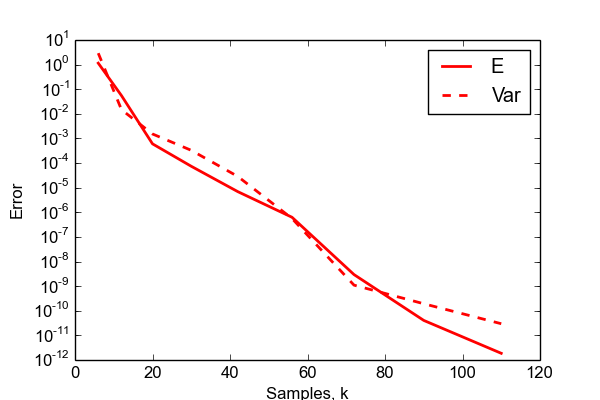
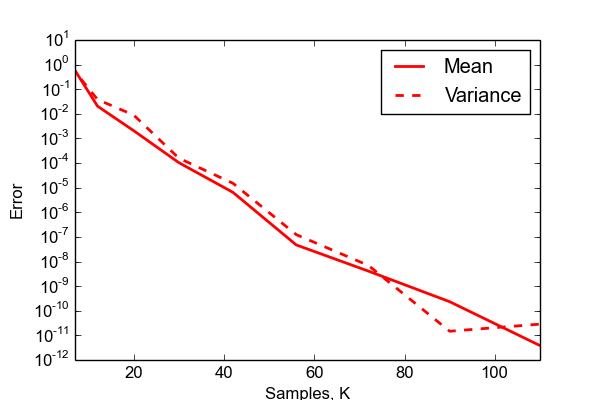
updated legend in plots

diff --git a/lecture2.tex b/lecture2.tex
@@ -142,7 +142,7 @@ mean, var = cp.E(u_hat, dist), cp.Var(u_hat, dist)
    \varepsilon_{Var} = \int_0^{10}|Var(u) - Var(\hat{u})|\,dx\]
 
  \begin{figure}
-  \includegraphics[width=0.7\textwidth]{Convergence_repeat.png}
+  \includegraphics[width=0.7\textwidth]{MC_convergence_2D.png}
  \end{figure}
 
 \end{frame}
@@ -393,7 +393,7 @@ Smolyak sparse grid:
   \begin{alert}
       {Clenshaw-Curtis:}\\
       \scriptsize
-    \verb;cp.generate\_quadrature(l, dist, rule="C", growth=False);
+     \verb;cp.generate\_quadrature(l, dist, rule="C", growth=False);
     \normalsize
   \begin{table}
   \begin{tabular}{lcccccccc}
@@ -407,7 +407,7 @@ Smolyak sparse grid:
   \begin{alert}
       {Nested Clenshaw-Curtis:}\\
       \scriptsize
-   \verb;cp.generate\_quadrature(l, dist, rule="C", growth=True);
+    \verb;cp.generate\_quadrature(l, dist, rule="C", growth=True);
     \normalsize
   \begin{table}
   \begin{tabular}{lcccccccc}
@@ -656,7 +656,7 @@ U_hat = cp.fit_regression(P, nodes, solves)
                 \scriptsize
                 \verb;nodes = dist.sample(100);
                 \normalsize
-                \includegraphics[width=0.7\textwidth]{samples_L.png}
+                %\includegraphics[width=0.7\textwidth]{samples_L.png}
 
                 L sampling:
 
@@ -705,7 +705,7 @@ U_hat = cp.fit_regression(P, nodes, solves)
 \end{frame}
 
 
-\begin{frame}{A compare between different methods}{}
+\begin{frame}{A comparison between different methods}{}
     % TODO
     % Plot!
     % SC nested-CC sparsegrid vs. PC with S-rule and LS-fit vs. MC
@@ -846,10 +846,9 @@ p_90 = np.percentile(u_mc,90,1)
  \end{lstlisting}
 \end{chaospy}
 
-\begin{frame}[fragile]
+\begin{frame}
  \frametitle{Confidence interval}
  % TODO
- % low: >>> plt.fill_between
   \begin{figure}
   \includegraphics[width=0.85\textwidth]{percentiles.png}
  \end{figure}

diff --git a/figures/MC_convergence_1D.py b/figures/MC_convergence_1D.py
@@ -10,11 +10,11 @@ pl.rc("figure", figsize=[6,4])
 pl.plot(-1,1, "k-")
 pl.plot(-1,1, "k--")
 pl.plot(-1,1, "r")
-pl.plot(-1,1, "b")
+#pl.plot(-1,1, "b")
 pl.plot(-1,1, "g")
-pl.legend(["E","Var", "Monte Carlo","Legendre","Polynomial chaos"],loc=3,prop={"size" :12})
+pl.legend(["Mean","Variance", "Monte Carlo","Polynomial chaos"],loc=3,prop={"size" :12})
 pl.xlim([0,20])
-pl.ylim([10**-20,10**1])
+pl.ylim([10**-26,10**1])
 
 def E_analytical(x):
     #return (1-np.exp(10*x))/(10*x)
@@ -133,6 +133,7 @@ for k in range(0,N+1):
 
 pl.plot(totalerrorMC, "r-",linewidth=2)
 pl.plot(totalvarianceMC, "r--", linewidth=2)
+
 pl.plot(K,errorPoly, "b-", linewidth=2)
 pl.plot(K,varPoly,"b--", linewidth=2)
 
@@ -144,6 +145,6 @@ pl.ylabel("Error")
 pl.yscale('log')
 #pl.legend(["E, MC","Var, MC","E, PC","Var, PC"], loc=3)
 #pl.savefig("Convergence_repeat.png")
-pl.savefig("MC_convergence_1D_2.png")
+pl.savefig("MC_convergence_1D_3.png")
 
 pl.show()

diff --git a/figures/convergence_collocation.py b/figures/convergence_collocation.py
@@ -21,7 +21,7 @@ I = cp.Uniform(8, 10)
 dist = cp.J(a,I)
 
 T = np.linspace(0, 10, Nt+1)[1:]
-dt = T[1] - T[0]
+dt = 10./Nt
 
 
 error = []
@@ -43,11 +43,12 @@ pl.rc("figure", figsize=[6,4])
     
 pl.plot(K,error,"r-",linewidth=2)
 pl.plot(K, var,"r--",linewidth=2)
-pl.xlabel("Samples, k")
+pl.xlabel("Samples, K")
 pl.ylabel("Error")
 pl.yscale('log')
+pl.xlim([7,110])
 #pl.title("Error in expectation value and variance ")
-pl.legend(["E","Var"])
+pl.legend(["Mean","Variance"])
 pl.savefig("convergence_collocation.png")
 
 pl.show()

diff --git a/figures/MC_convergence_2D_diff.py b/figures/MC_convergence_2D_diff.py
@@ -13,9 +13,9 @@ pl.plot(-1,1, "k--")
 pl.plot(-1,1, "r")
 pl.plot(-1,1, "b")
 pl.plot(-1,1, "g")
-pl.legend(["E","Var", "Monte Carlo","Nested-CC sparsegrid", "PC with S-rule and LS"],loc=3,prop={"size" :12})
+pl.legend(["Mean","Variance", "Monte Carlo","CC with nested sparse grid", "Least Square with Sobol sampling"],loc=3,prop={"size" :12})
 #pl.xlim([0,20])
-pl.ylim([10**-16,10**4])
+pl.ylim([10**-20,10**4])
 
 
 def E_analytical(x):

diff --git a/figures/gallerkin.py b/figures/gallerkin.py
@@ -40,7 +40,7 @@ pl.plot(-1,1, "k--")
 pl.plot(-1,1, "r")
 pl.plot(-1,1, "b")
 pl.plot(-1,1, "g")
-pl.legend(["E","Var", "Gaussian quadrature","Point collocation","Intrusive Gallerkin"],loc=3,prop={"size" :12})
+pl.legend(["Mean","Variance", "Gaussian quadrature","Point collocation","Intrusive Gallerkin"],loc=3,prop={"size" :12})
 pl.xlim([5,30])
 pl.ylim([10**-22,10**0])
 

diff --git a/figures/MC_convergence_2D.py b/figures/MC_convergence_2D.py
@@ -13,7 +13,7 @@ pl.plot(-1,1, "k--")
 pl.plot(-1,1, "r")
 pl.plot(-1,1, "b")
 #pl.plot(-1,1, "g")
-pl.legend(["E","Var", "Monte Carlo","Polynomial chaos"],loc=3,prop={"size" :12})
+pl.legend(["Mean","Variance", "Monte Carlo","Polynomial chaos"],loc=3,prop={"size" :12})
 pl.xlim([0,20])
 pl.ylim([10**-16,10**2])
 

diff --git a/figures/rosenblat.py b/figures/rosenblat.py
@@ -24,7 +24,7 @@ plt.plot(-1,1, "k--")
 plt.plot(-1,1, "r")
 plt.plot(-1,1, "b")
 plt.plot(-1,1, "g")
-plt.legend(["E","Var", "Normal","Uniform","Gamma"],loc=3,prop={"size" :12})
+plt.legend(["mean","Variance", "Normal","Uniform","Gamma"],loc=3,prop={"size" :12})
 plt.xlim([5,90])
 plt.ylim([5*10**-5,10**1])
 

diff --git a/figures/analysis.py b/figures/analysis.py
@@ -63,8 +63,8 @@ plt.plot(x,cp.E(U_hat,dist),linewidth=2)
 plt.xlabel("x")
 plt.ylabel("u")
 plt.legend(["$P_{10}$", "$P_{90}$", "Mean"],loc=3)
-plt.savefig("percentiles.png")
 plt.xlim({0,10})
+plt.savefig("percentiles.png")
 #plt.show()
 
 q_0,q_1 = cp.variable(2)

diff --git a/figures/dependent.py b/figures/dependent.py
@@ -88,6 +88,6 @@ plt.ylabel("Error")
 plt.yscale('log')
 plt.xlim([6,90])
 #plt.title("Error in expectation value and variance ")
-plt.legend(["E","Var"])
+plt.legend(["Mean","Variance"])
 plt.savefig("convergence_dependence.png")
 plt.show()
